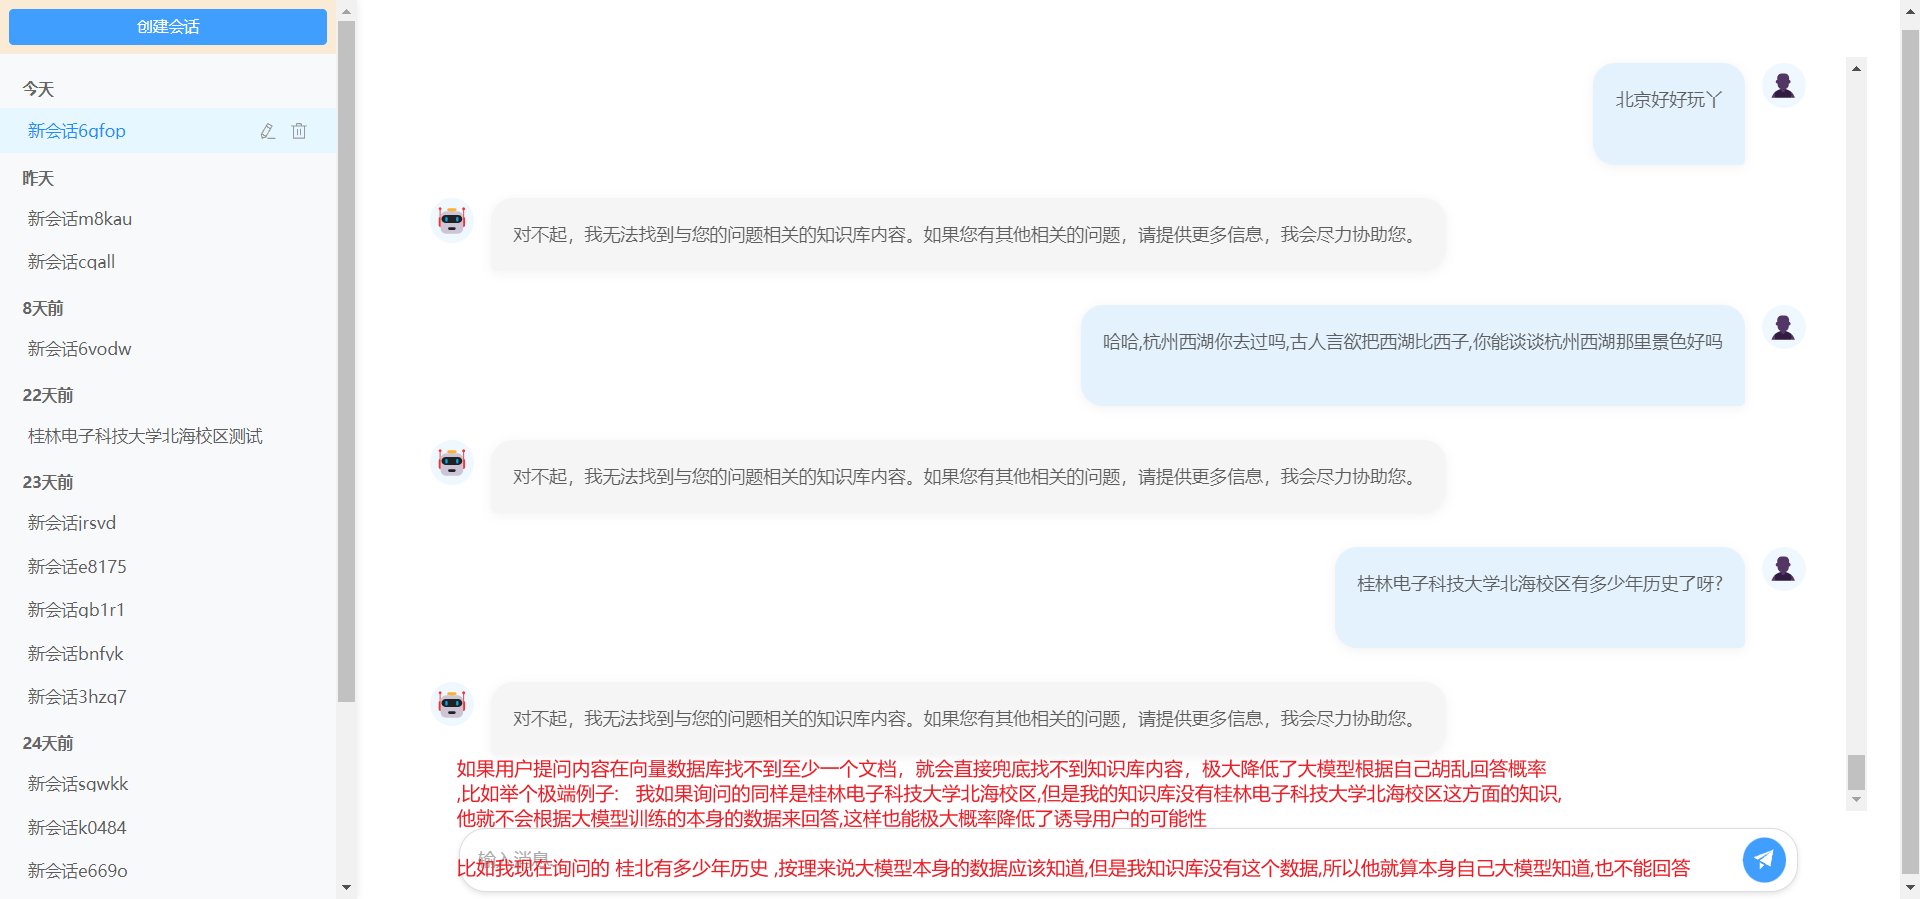
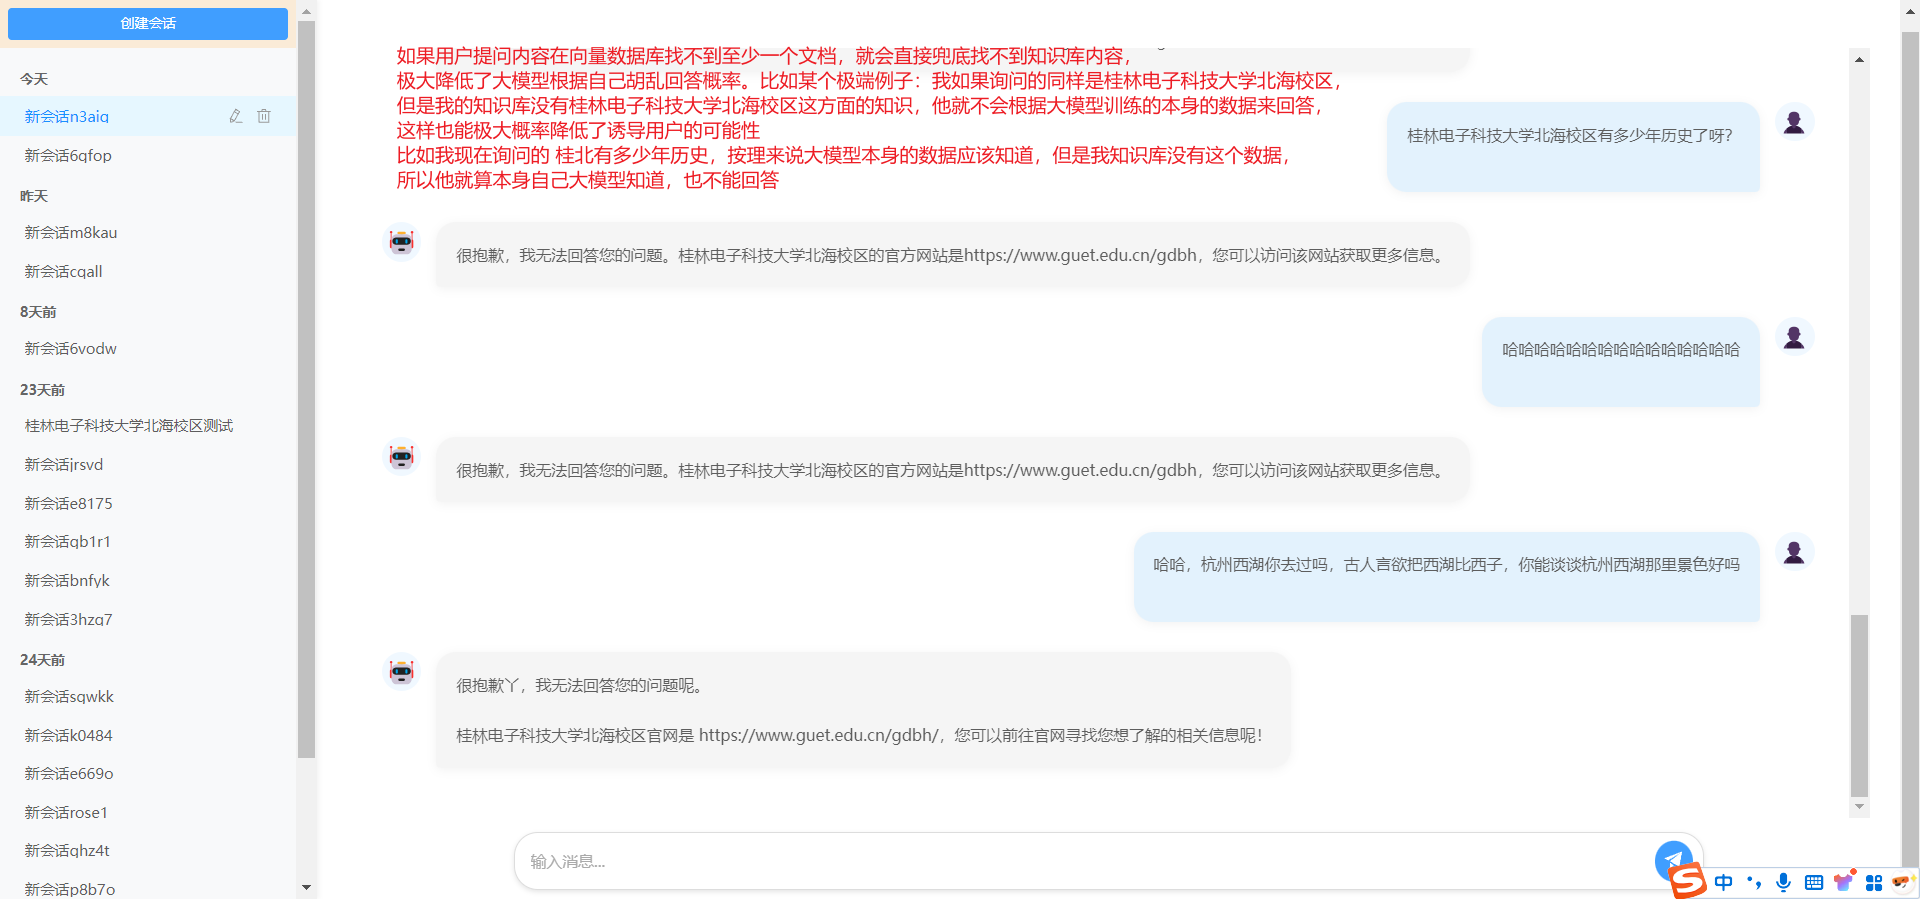
refactor(guli-ai):优化查询重写和匹配逻辑- 添加相似度阈值常量，提高代码可维护性 - 修改提示词模板，明确查询重写任务 - 更新空上下文提示词，提供更友好的用户反馈 - 调整相似度阈值，提高查询匹配准确性 - 优化系统消息，明确回答范围和规则 - 重构部分代码结构，提高可读性和可维护性

diff --git a/guli-ai/src/main/java/com/atguigu/guliai/strategy/OllamaAiOperator.java b/guli-ai/src/main/java/com/atguigu/guliai/strategy/OllamaAiOperator.java
@@ -1,4 +1,5 @@
 package com.atguigu.guliai.strategy;
+
 import com.atguigu.common.utils.StringUtils;
 import com.atguigu.guliai.constant.SystemConstant;
 import com.atguigu.guliai.vo.QueryVo;
@@ -29,6 +30,7 @@ import org.springframework.ai.vectorstore.qdrant.QdrantVectorStore;
 import org.springframework.beans.factory.annotation.Autowired;
 import org.springframework.stereotype.Component;
 import reactor.core.publisher.Flux;
+
 import java.util.*;
 import java.util.stream.Collectors;
 
@@ -39,6 +41,7 @@ public class OllamaAiOperator implements AiOperator {
     private static final String METADATA_CHUNK_SIZE = "chunkSize";
     private static final String METADATA_KNOWLEDGE_ID = "knowledgeId";
     private static final int CHUNK_SIZE = 500;
+    private static final double SIMILARITY_THRESHOLD = 0.6;
 
     @Autowired
     private QdrantVectorStore ollamaVectorStore;
@@ -60,17 +63,17 @@ public class OllamaAiOperator implements AiOperator {
 
             // 修改提示词模板，明确指示只重写查询，不生成回答
             String promptTemplate = """
-            你是一个查询重写助手。你的任务是将用户查询重写为更适合向量检索的形式，但必须保持原始语言（中文）不变。
-            
-            要求：
-            1. 只输出重写后的查询，不要添加任何解释、回答或其他内容
-            2. 不要将查询翻译成英文或其他语言
-            3. 保持查询的原始意图，但使用更简洁、更直接的表达方式
-            
-            原始查询：{query}
-            
-            重写后的查询：{target}
-            """;
+                你是一个查询重写助手。你的任务是将用户查询重写为更适合向量检索的形式，但必须保持原始语言（中文）不变。
+                            
+                要求：
+                1. 只输出重写后的查询，不要添加任何解释、回答或其他内容
+                2. 不要将查询翻译成英文或其他语言
+                3. 保持查询的原始意图，但使用更简洁、更直接的表达方式
+                            
+                原始查询：{query}
+                            
+                重写后的查询：{target}
+                """;
 
             // 使用自定义提示词模板
             ChatClient.Builder builder = ChatClient.builder(ollamaChatModel);
@@ -84,7 +87,10 @@ public class OllamaAiOperator implements AiOperator {
 
             // 创建空上下文提示词模板
             PromptTemplate emptyContextPromptTemplate = PromptTemplate.builder()
-                    .template("您提问的问题位于我的知识库之外，我无法回答您提问的问题。请尝试重新表述您的问题或联系学校相关部门获取帮助。")
+                    .template("""
+                        你一定只能输出下面的内容一字不差：
+                        很抱歉丫，我无法回答您的问题呢。桂林电子科技大学北海校区官网是 https://www.guet.edu.cn/gdbh/，您可以前往官网寻找您想了解的相关信息呢！
+                        """)
                     .build();
 
             // 创建上下文查询增强器
@@ -98,7 +104,7 @@ public class OllamaAiOperator implements AiOperator {
             this.retrievalAugmentationAdvisor = RetrievalAugmentationAdvisor.builder()
                     .documentRetriever(VectorStoreDocumentRetriever.builder()
                             .vectorStore(ollamaVectorStore)
-                            .similarityThreshold(0.45)
+                            .similarityThreshold(SIMILARITY_THRESHOLD)
                             .topK(3)
                             .build())
                     .queryAugmenter(queryAugmenter)
@@ -107,6 +113,12 @@ public class OllamaAiOperator implements AiOperator {
             // 初始化检索到的文档列表
             this.retrievedDocuments = new ArrayList<>();
             log.info("组件初始化成功");
+
+            // 在初始化完成后调用测试方法
+            // log.info("=== 开始测试查询重写效果 ===");
+            // testQueryRewriteSimilarity();
+            // log.info("=== 测试完成 ===");
+
         } catch (Exception e) {
             log.error("组件初始化失败", e);
             throw new RuntimeException("初始化失败", e);
@@ -222,7 +234,7 @@ public class OllamaAiOperator implements AiOperator {
                         .eq("projectId", queryVo.getProjectId().toString())
                         .build())
                 .topK(3)
-                .similarityThreshold(0.45)
+                .similarityThreshold(SIMILARITY_THRESHOLD)
                 .build();
     }
 
@@ -256,9 +268,24 @@ public class OllamaAiOperator implements AiOperator {
             List<Message> userMessages = Arrays.stream(messages)
                     .filter(m -> m.getMessageType() == MessageType.USER)
                     .collect(Collectors.toList());
-
             if (!userMessages.isEmpty()) {
                 userQuery = userMessages.get(userMessages.size() - 1).getText();
+            }
+
+            // 创建系统消息，明确指示回答范围
+            SystemMessage systemMessage = new SystemMessage("""
+            你是一个严格基于桂林电子科技大学北海校区知识库内容回答问题的AI助手。
+            
+            规则：
+            1. 只回答与桂林电子科技大学北海校区直接相关的问题
+            2. 如果检索到的文档与用户问题关联性不强，礼貌的拒绝回答
+            3. 不要基于你的通用知识回答问题，只能基于已有知识库内容回答，不能胡编乱造或者篡改知识库
+            """);
+
+            List<Message> messageList = new ArrayList<>();
+            messageList.add(systemMessage);
+            if (!userMessages.isEmpty()) {
+                messageList.add(userMessages.get(userMessages.size() - 1));
             }
 
             // 使用RetrievalAugmentationAdvisor处理聊天
@@ -266,24 +293,8 @@ public class OllamaAiOperator implements AiOperator {
                     .defaultAdvisors(retrievalAugmentationAdvisor)
                     .build();
 
-            // 构建系统提示
-            StringBuilder systemPrompt = new StringBuilder("""
-                你是一个严格基于桂林电子科技大学北海校区知识库内容回答问题的AI助手，请遵守以下规则:
-                                    
-                1. 回答必须基于提供的知识库内容,如果用户询问的内容是知识库内容有的,把用户提问想了解的的内容在知识库里找到后把相关的都回答出来,不相关的不用回答(即使没有直接找到知识库的内容但是可能与用户的提问间接相关)
-                2. 引用原文时必须注明出处(如"根据文档1...")
-                """);
-
-            Message systemMessage = new SystemMessage(systemPrompt.toString());
-            List<Message> messageList = new ArrayList<>();
-            messageList.add(systemMessage);
-
-            if (!userMessages.isEmpty()) {
-                messageList.add(userMessages.get(userMessages.size() - 1));
-            }
-
             return chatClient.prompt()
-                    .messages(messageList)
+                    .messages(messageList)  // 包含系统消息和用户消息
                     .stream()
                     .content()
                     .doOnError(e -> log.error("聊天流处理错误", e));
@@ -295,6 +306,7 @@ public class OllamaAiOperator implements AiOperator {
 
     /**
      * 设置检索到的文档
+     *
      * @param documents 检索到的文档列表
      */
     public void setRetrievedDocuments(List<Document> documents) {
